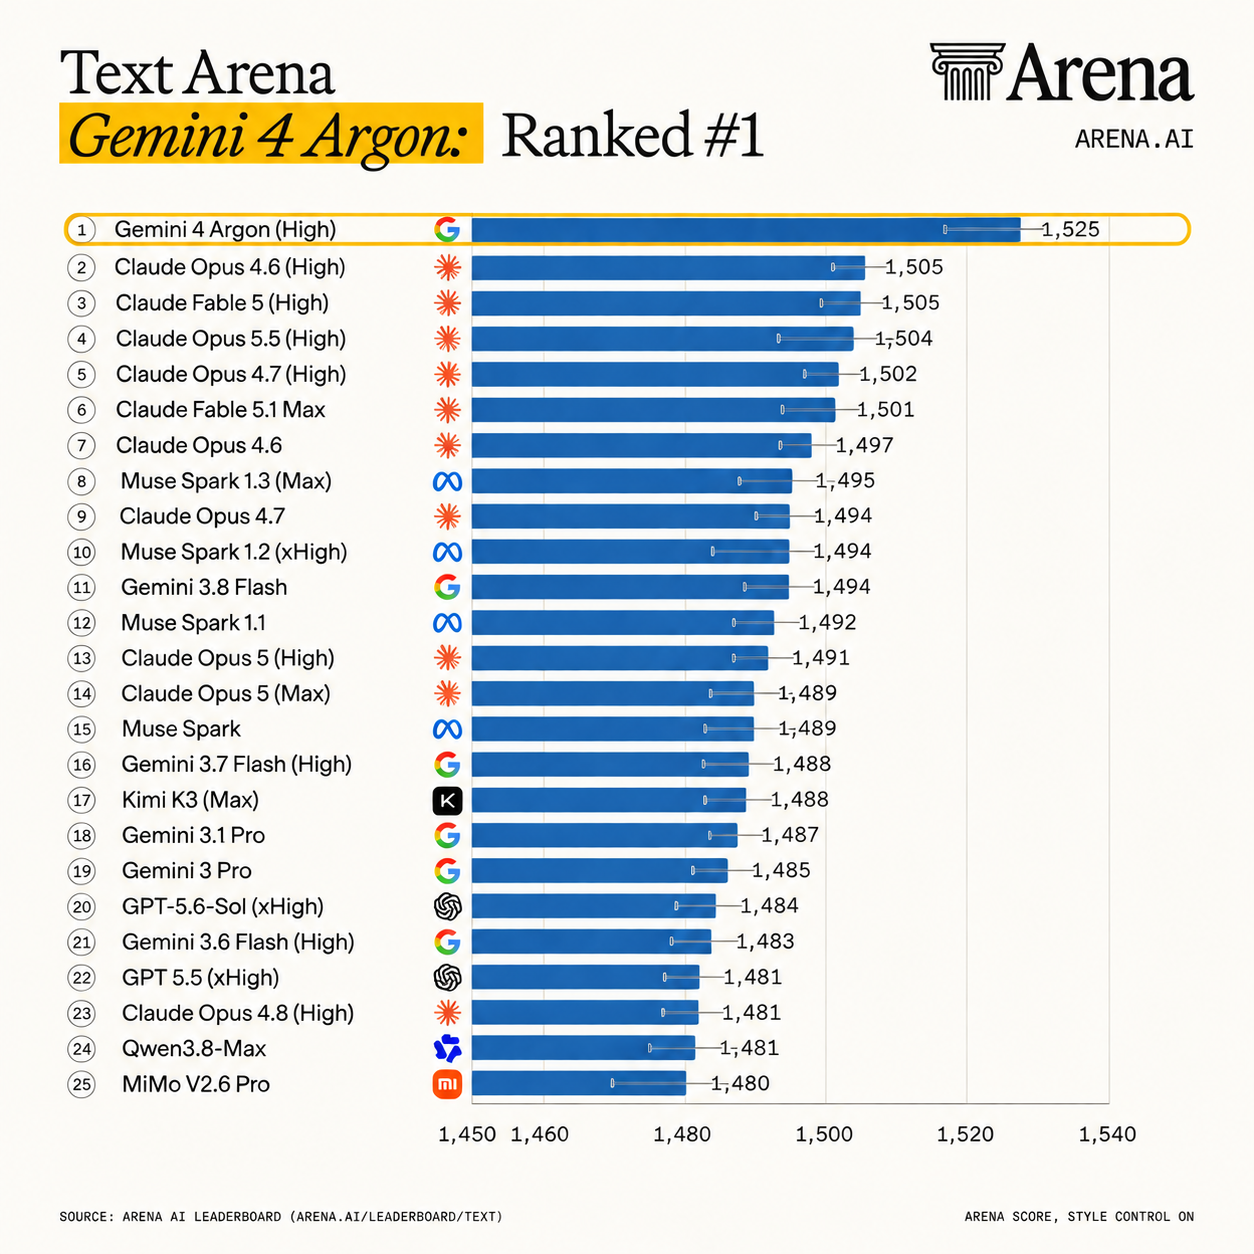
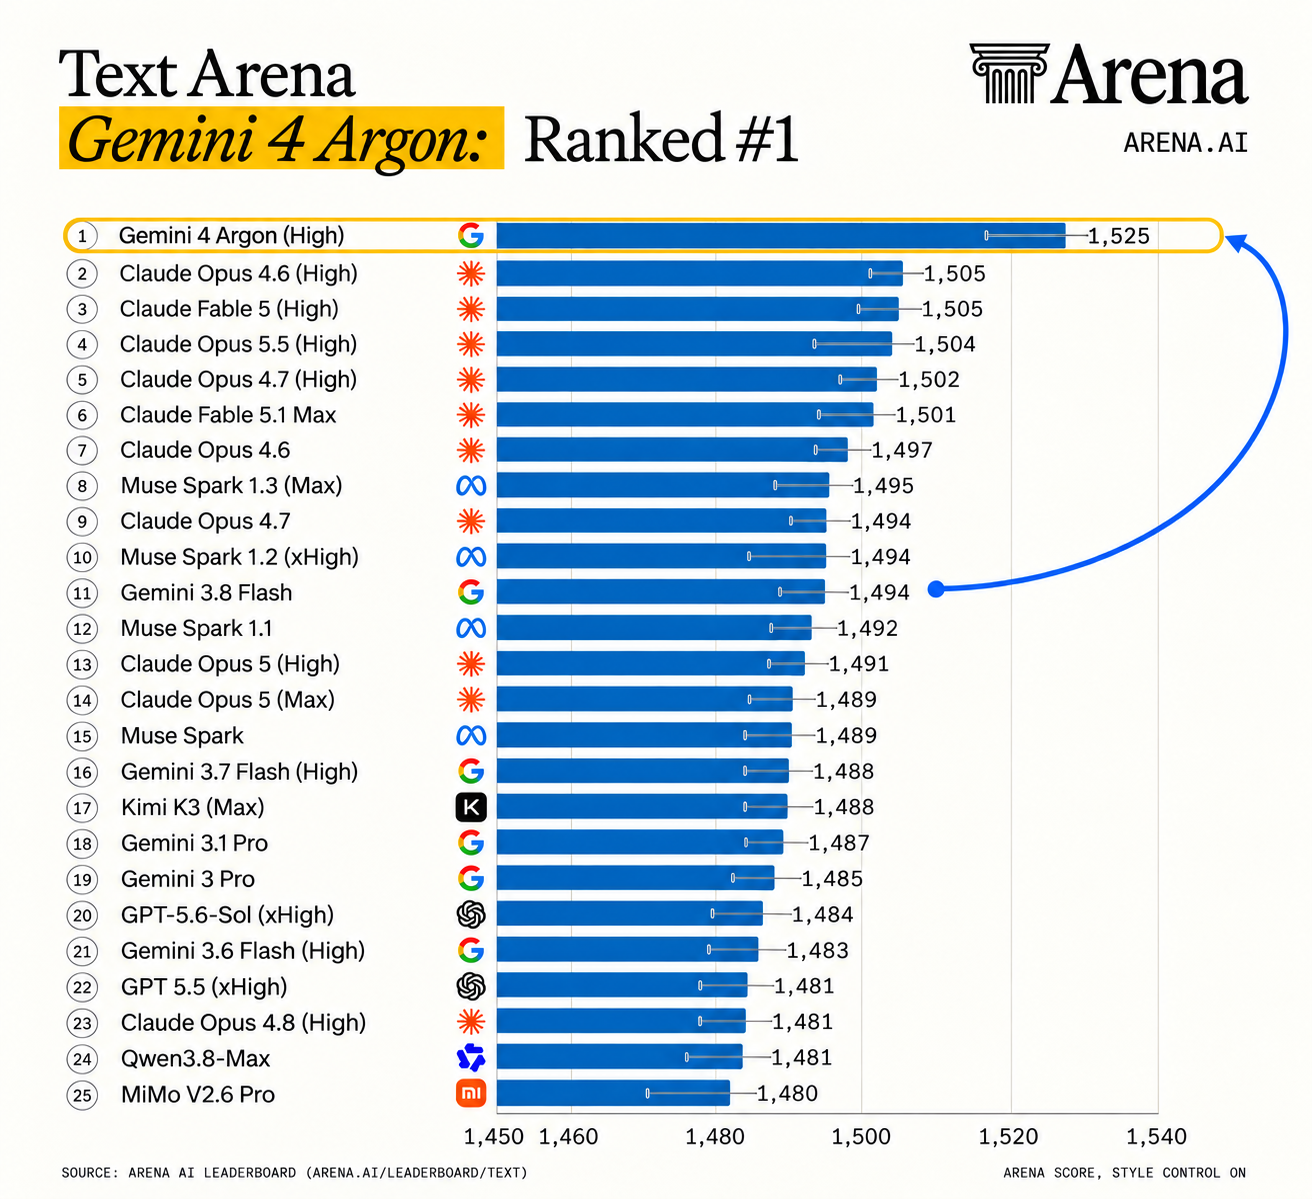
Replace October leaderboard image with arrow version

diff --git a/src/content/blog/ai-jokes-of-our-time.md b/src/content/blog/ai-jokes-of-our-time.md
@@ -43,7 +43,7 @@ draft: false
 
 ## 十月
 
-[![十月笑话配图：Gemini 4 Argon 位列 Text Arena 榜首的高清榜单](/images/posts/ai-jokes-of-our-time/october-gemini-argon-text-arena-meme.png)](/images/posts/ai-jokes-of-our-time/october-gemini-argon-text-arena-meme.png)
+[![十月笑话配图：Gemini 4 Argon 位列 Text Arena 榜首，蓝色箭头从 Gemini 3.8 Flash 指向榜首](/images/posts/ai-jokes-of-our-time/october-gemini-argon-text-arena-meme.png?v=50340288)](/images/posts/ai-jokes-of-our-time/october-gemini-argon-text-arena-meme.png?v=50340288)
 
 AI写作最严厉的父亲
 
